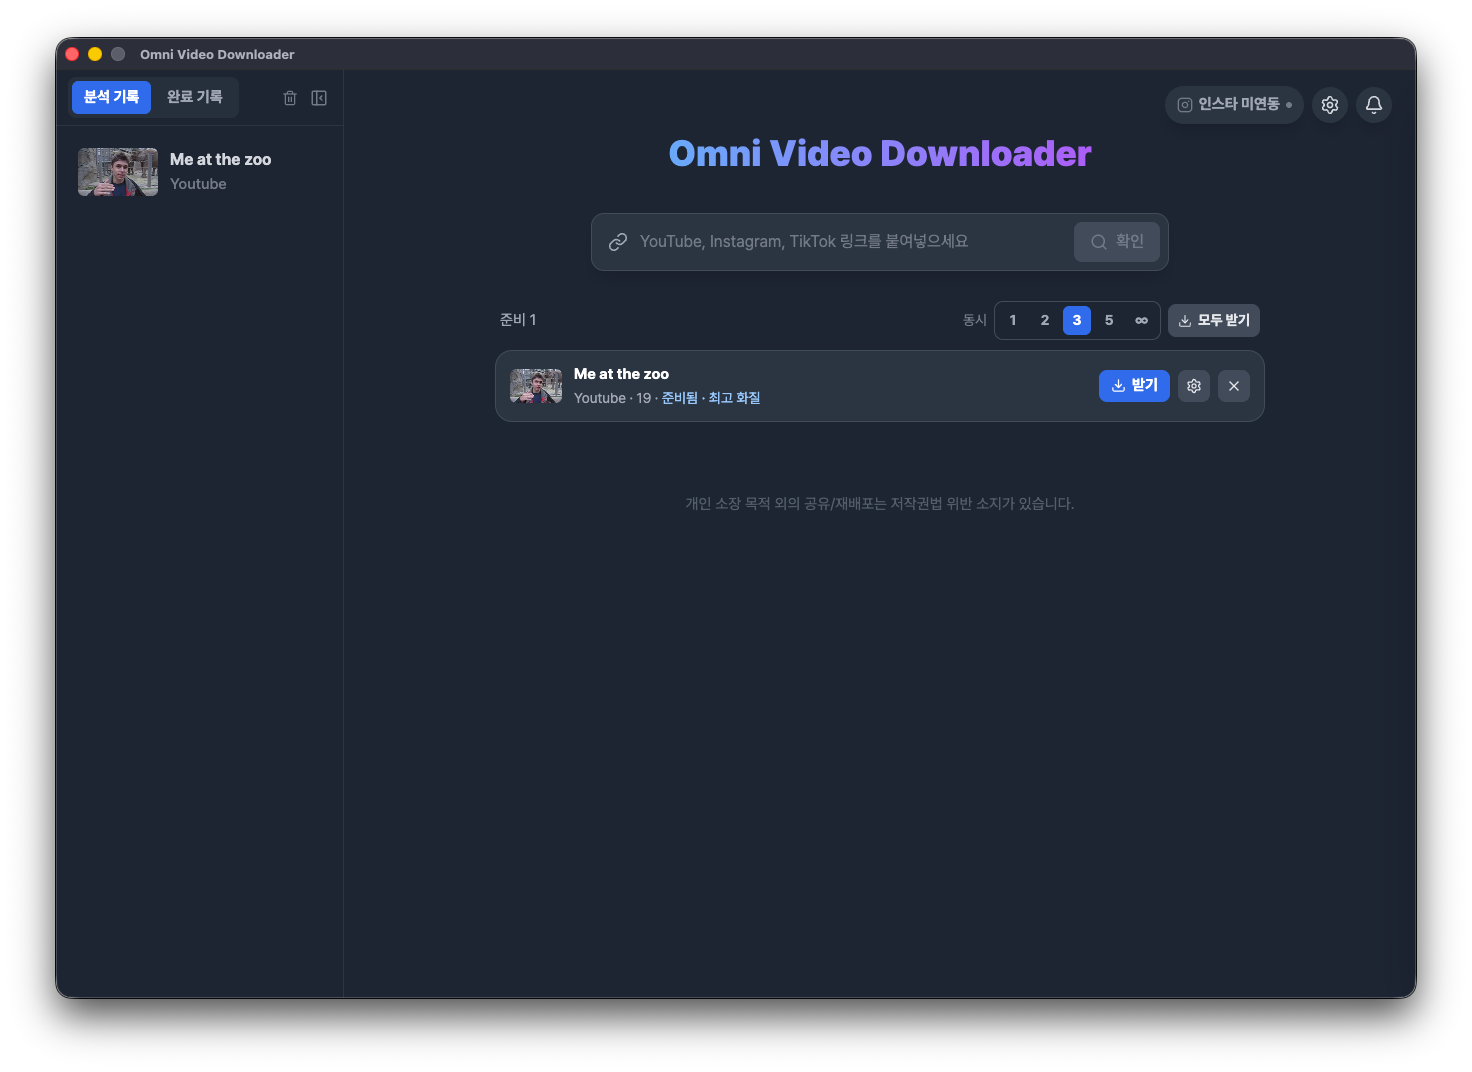
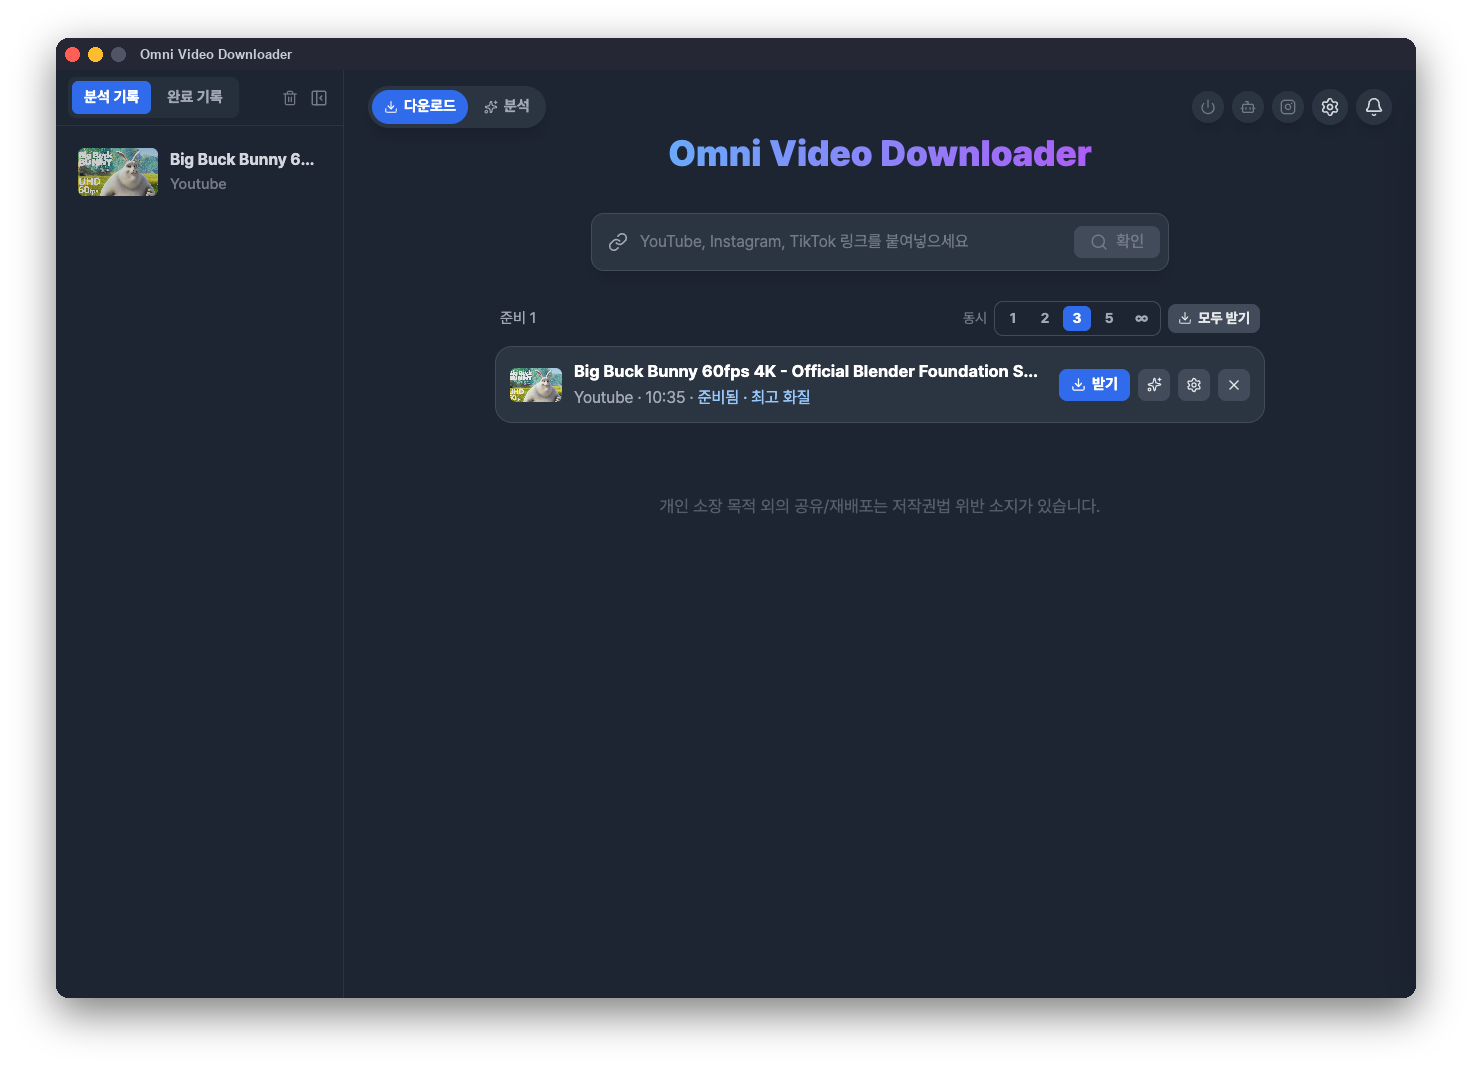
docs: v1.16.0 README (빠른 실행·백그라운드·맥 자동 업데이트), 새 아이콘·스크린샷

diff --git a/README.md b/README.md
@@ -34,6 +34,9 @@
 - 🌐 **크롬 확장 연동** — 영상 페이지에서 **'다운로드'·'분석'** 버튼으로 앱에 바로 전달
 - 🧩 **확장 프로그램 설정 탭** — 앱 설정에서 확장 프로그램 다운로드와 설치 방법 안내
 - 📥 **여러 개 동시 다운로드** — 대기열로 한 번에 여러 영상
+- ⚡ **단축키로 바로 받기** — 어디서든 단축키(기본: 맥 `⌃⌥⌘Space`, 윈도우 `Ctrl+Shift+Space`)를 누르고 링크를 붙여넣으면 앱 창을 열지 않아도 다운로드 (설정 → 빠른 실행에서 변경)
+- 🫥 **백그라운드 실행** — 창을 닫아도 트레이(맥은 메뉴 막대)에 남아 다운로드를 이어감. 설정에서 끌 수 있고, 컴퓨터를 켤 때 자동 실행하게 할 수도 있음(기본 꺼짐)
+- 🔔 **완료 알림** — 알림을 누르면 저장 폴더가 열리고, 설정에서 완료 시 폴더를 자동으로 열 수도 있음
 - 🔒 **인스타그램 계정 연동** — 앱 안에서 로그인해 본인이 볼 수 있는 콘텐츠 접근
 - 🔄 **자동 엔진 업데이트** — 플랫폼이 바뀌어도 다운로드 엔진을 최신으로 유지
 
@@ -69,6 +72,9 @@
 > 그래도 열리지 않으면, **앱을 먼저 응용 프로그램 폴더에 넣은 뒤** dmg에 함께 들어 있는 **`Click Me to Fix`** 파일을 더블클릭하세요.
 > 격리 속성을 제거하고 내부 엔진 실행 권한을 복구합니다. (실행 시 맥 로그인 비밀번호를 입력하라고 물어봅니다.)
 
+> 🔁 **v1.16.0부터 맥도 앱 안에서 자동 업데이트됩니다.** 단, 이전 버전(1.15.x 이하)에서 올라오는 경우 **1.16.0만은 위 방법대로 dmg로 직접 설치**해 주세요(이전 버전에는 맥 앱 내 업데이트 기능이 없고, 서명 방식도 바뀌었습니다). 다음 버전부터는 앱에서 "업데이트"만 누르면 됩니다.
+> 업데이트 후 AI 분석을 처음 쓸 때 **키체인 접근 허용 창이 두 번** 뜰 수 있습니다. 맥 로그인 암호를 입력하고 **허용**을 누르면 저장된 AI 키가 그대로 유지됩니다. 키가 사라졌다면 설정 → AI 분석에서 다시 입력하세요.
+
 ## 🚀 사용법
 
 ### 기본 다운로드
@@ -82,6 +88,15 @@
 3. **다운로드** 클릭 → 완료
 
 > 영상과 장면 이미지를 한 번에 받으려면 다운로드 전 **세부 설정 → 함께 받기**에서 **'샷(장면) zip'** 을 켜세요. 항상 함께 받으려면 **설정 → 다운로드 → 함께 받기**에서 기본값으로 켜 둘 수 있습니다. 영상 저장 후 `<제목>_shots.zip`이 같이 저장됩니다.
+
+### ⚡ 빠른 실행 (단축키 · 백그라운드)
+
+1. 앱을 한 번 실행해 두면, 창을 닫아도 트레이(맥은 메뉴 막대)에 남아 있습니다.
+2. 어디서든 단축키를 누르면 주소 입력창이 뜹니다. 기본값은 **맥 `⌃⌥⌘Space`, 윈도우 `Ctrl+Shift+Space`** 입니다.
+3. 링크를 붙여넣고 **Enter** — 앱 창을 열지 않아도 다운로드가 시작되고, 끝나면 알림이 옵니다.
+
+> 설정 → **빠른 실행**에서 단축키 변경, 백그라운드 실행 끄기, 컴퓨터 켤 때 자동 실행(기본 꺼짐)을 바꿀 수 있습니다. 화면 위쪽 전원 아이콘이나 트레이 메뉴에서도 자동 실행을 켜고 끌 수 있습니다.
+> 단축키가 다른 앱과 겹치면 등록되지 않을 수 있으니, 그때는 다른 조합으로 바꿔 보세요. 완전히 끝내려면 트레이(메뉴 막대) 메뉴의 **종료**를 사용하세요.
 
 ### 🔎 콘텐츠 분석
 
@@ -138,20 +153,27 @@ Apple 유료 서명을 붙이지 않은 개인 배포 앱이라 나타나는 정
 <summary><b>다운로드가 갑자기 안 돼요 / 분석이 실패해요</b></summary>
 
 플랫폼이 내부 구조를 바꾸면 다운로드 엔진 업데이트가 필요합니다.
-앱을 재시작하면 최신 엔진 업데이트를 안내하며, 앱 자체 업데이트는 [Releases 페이지](https://github.com/thoven-jun/omni-video-downloader-releases/releases/latest)에서 최신 버전을 받아 해결할 수 있습니다.
+앱을 재시작하면 최신 엔진 업데이트를 안내하며, 앱 자체 업데이트는 앱 안의 업데이트 알림으로(맥은 1.16.0 이상) 하거나 [Releases 페이지](https://github.com/thoven-jun/omni-video-downloader-releases/releases/latest)에서 최신 버전을 받아 해결할 수 있습니다.
+</details>
+
+<details>
+<summary><b>창을 닫았는데 앱이 계속 켜져 있어요</b></summary>
+
+1.16.0부터 창을 닫아도 앱이 트레이(맥은 메뉴 막대)에 남아 다운로드를 이어가고 단축키를 받습니다. 원하지 않으면 **설정 → 빠른 실행 → 창을 닫아도 백그라운드에서 실행**을 끄세요. 완전히 끝내려면 트레이(메뉴 막대) 메뉴의 **종료**를 누르면 됩니다.
 </details>
 
 <details>
 <summary><b>업데이트는 어떻게 하나요?</b></summary>
 
 - **Windows**: 새 버전이 나오면 앱이 알려주고, 동의하면 자동으로 설치·재시작합니다.
-- **macOS**: 새 버전 알림이 뜨면 [Releases 페이지](https://github.com/thoven-jun/omni-video-downloader-releases/releases/latest)에서 새 dmg를 받아 덮어써 주세요.
+- **macOS**: 1.16.0부터는 Windows처럼 앱 안에서 "업데이트"를 누르면 새 버전을 받아 교체하고 다시 실행합니다. 1.15.x 이하에서 1.16.0으로 올라올 때만 [Releases 페이지](https://github.com/thoven-jun/omni-video-downloader-releases/releases/latest)에서 dmg를 받아 직접 설치해 주세요. 앱 안에서 업데이트한 새 버전이 제대로 켜지지 않으면 업데이트 전 버전으로 자동 복구됩니다(직접 설치한 경우는 해당 없음).
 </details>
 
 ## 🐞 버그 제보
 
-앱에서 오류가 나면 **알림 센터의 "제보" 버튼**으로, 그 밖의 의견은 **설정 → 의견·버그**에서 보낼 수 있습니다.
+앱에서 오류가 나면 **알림 센터의 "제보" 버튼**(단축키 입력창·백그라운드에서 난 오류는 그 입력창의 "제보" 버튼 또는 실패 알림을 눌러서)으로, 그 밖의 의견은 **설정 → 의견·버그**에서 보낼 수 있습니다.
 자동으로 첨부되는 오류 정보의 사용자 경로·URL은 가려진 채 전송되며, 직접 쓴 메모(붙여넣은 링크 포함)와 선택 입력한 이메일은 그대로 전송됩니다.
+창 없이 생긴 오류는 최근 30건만 이 기기 안에 보관되며(링크 포함, 외부로 전송되지 않음), 제보를 보낼 때만 전송됩니다.
 제보를 보내려면 개인정보 국외 이전(Discord·Cloudflare) 동의가 필요하며, v1.15.0부터는 보낸 제보에 대한 답장을 앱에서 받고 제보를 직접 삭제할 수 있습니다.
 
 ## ⚖ 사용 시 유의사항
